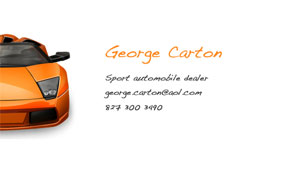
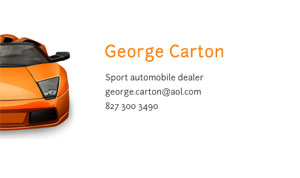
Added more themes

Changed region(s): [[0.33, 0.3933, 0.69, 0.6461], [0.33, 0.2247, 0.75, 0.3652]]

diff --git a/public/stylesheets/themes/forklift.css b/public/stylesheets/themes/forklift.css
@@ -1,0 +1,8 @@
+#card_background_wrapper {padding:0 0 15px 0}
+#card {background:#fff url(../../images/forklift/forklift.jpg) no-repeat 39px 58px}
+#card_info {padding-top:53px; width:286px; float:right; margin-right:20px;}
+#name {font-family:Junction; font-size:22px; color:#e94817}
+#title {font-style:oblique; margin-bottom:25px; font-size:14px; color:#555}
+
+#contact_info li {color:#555; margin:10px 0; font-style:oblique;}
+a {color:#555}

diff --git a/public/stylesheets/themes/geography.css b/public/stylesheets/themes/geography.css
@@ -1,0 +1,8 @@
+#card_background_wrapper {padding:0 0 15px 0}
+#card {background:#fff url(../../images/geography/geography.png) no-repeat 31px 55px}
+#card_info {padding-top:53px; width:305px; float:right; margin-right:20px;}
+#name {font-family:Junction; font-size:22px; color:#058ee6}
+#title {margin-bottom:25px; font-size:14px; color:#555}
+
+#contact_info li {color:#555; margin:10px 0}
+a {color:#555}

diff --git a/public/stylesheets/themes/chemist.css b/public/stylesheets/themes/chemist.css
@@ -1,0 +1,8 @@
+#card_background_wrapper {padding:0 0 15px 0}
+#card {background:#fff url(../../images/chemist/chemist.png) no-repeat 62px 55px}
+#card_info {padding-top:60px; width:305px; float:right; margin-right:20px;}
+#name {font-family:Junction; font-size:22px; color:#058ee6}
+#title {margin-bottom:25px; font-size:14px; color:#555}
+
+#contact_info li {color:#555; margin:10px 0}
+a {color:#555}

diff --git a/public/stylesheets/themes/charts.css b/public/stylesheets/themes/charts.css
@@ -1,0 +1,8 @@
+#card_background_wrapper {padding:0 0 15px 0}
+#card {background:#fff url(../../images/charts/charts.png) no-repeat 31px 50px}
+#card_info {padding-top:53px; width:305px; float:right; margin-right:20px;}
+#name {font-family:Junction; font-size:22px; color:#058ee6}
+#title {margin-bottom:25px; font-size:14px; color:#555}
+
+#contact_info li {color:#555; margin:10px 0}
+a {color:#555}

diff --git a/db/schema.rb b/db/schema.rb
@@ -10,7 +10,7 @@
 #
 # It's strongly recommended to check this file into your version control system.
 
-ActiveRecord::Schema.define(:version => 20110317051617) do
+ActiveRecord::Schema.define(:version => 20110317172945) do
 
   create_table "business_card_informations", :force => true do |t|
     t.integer  "business_card_id"

diff --git a/db/migrate/20110317172945_add_themes_2.rb b/db/migrate/20110317172945_add_themes_2.rb
@@ -1,0 +1,10 @@
+class AddThemes2 < ActiveRecord::Migration
+  def self.up
+    Theme.create(:title => "Chemistry", :slug => "chemist")
+    Theme.create(:title => "Geography", :slug => "geography")
+    Theme.create(:title => "Charts", :slug => "charts")
+  end
+
+  def self.down
+  end
+end
